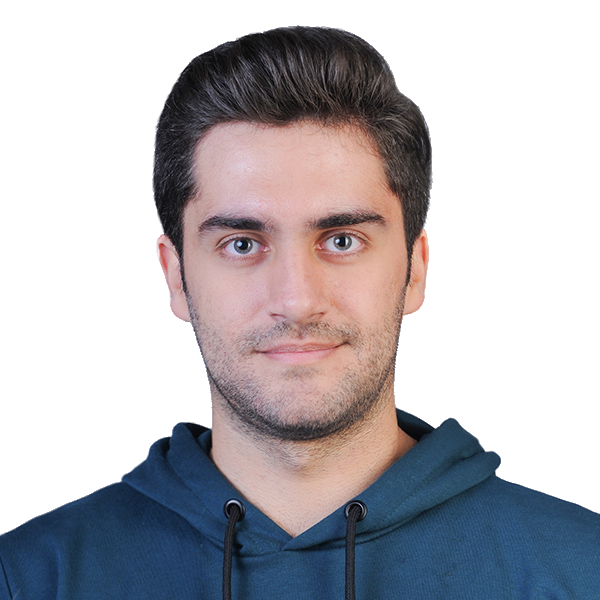
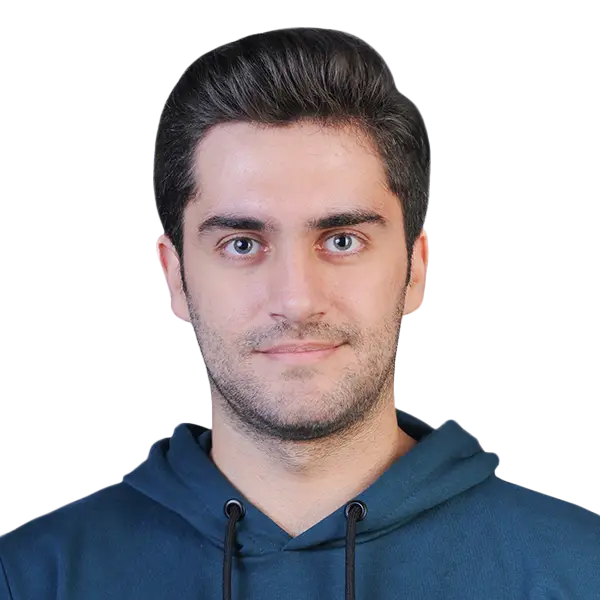
My image size reduced and some minor enhancements.

diff --git a/src/components/Projects.tsx b/src/components/Projects.tsx
@@ -22,7 +22,7 @@ const Project = forwardRef<HTMLDivElement>(({}, ref) => {
           >
             Link to Website
           </a>
-          <a className={styles.links} href="">
+          <a className={styles.links} href="" target="_blank">
             Link to Github Repo
           </a>
         </div>
@@ -42,7 +42,11 @@ const Project = forwardRef<HTMLDivElement>(({}, ref) => {
           >
             Link to Website
           </a>
-          <a className={styles.links} href="https://github.com/sinatavakolifard/portfolio">
+          <a
+            className={styles.links}
+            href="https://github.com/sinatavakolifard/portfolio"
+            target="_blank"
+          >
             Link to Github Repo
           </a>
         </div>

diff --git a/src/components/NavBar.tsx b/src/components/NavBar.tsx
@@ -134,18 +134,21 @@ const NavBar = ({ scroll }: { scroll: (i: number) => void }) => {
       <div className={styles.navSocialMedia}>
         <a
           href="mailto:tavakolifard.sina@gmail.com"
+          target="_blank"
           className={styles.navSocialMediaItem}
         >
           <ImMail4 size={30} />
         </a>
         <a
           href="https://linkedin.com/in/sina-tavakolifard-538990269"
+          target="_blank"
           className={styles.navSocialMediaItem}
         >
           <BsLinkedin size={30} />
         </a>
         <a
           href="https://github.com/sinatavakolifard"
+          target="_blank"
           className={styles.navSocialMediaItem}
         >
           <BsGithub size={30} />
